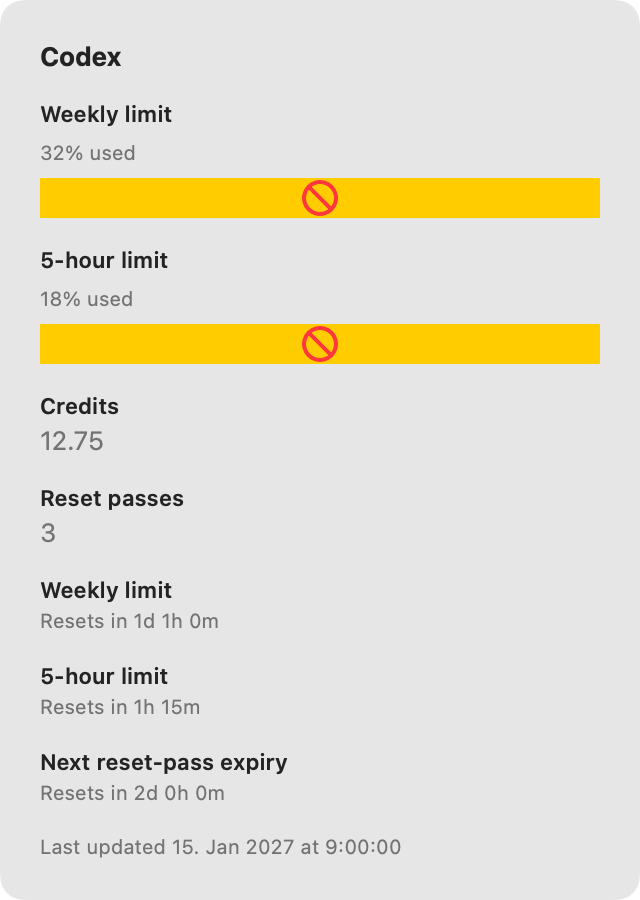
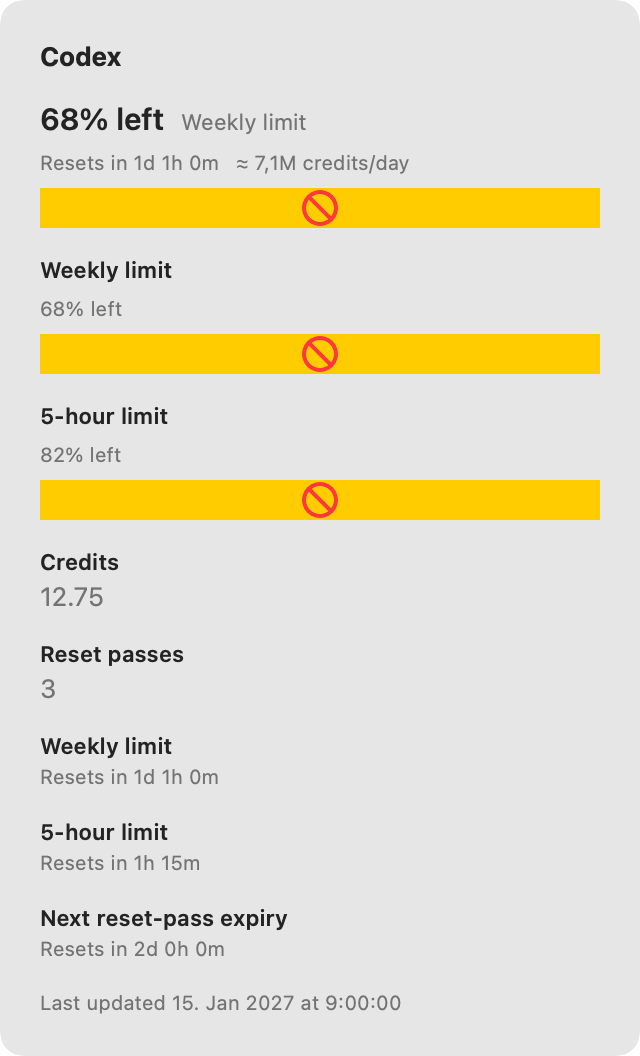
Wave 4 task 4.3: fixture render refresh (18 states)
All 15 expanded section states re-rendered for the headline-first layout,
plus 3 collapsed headline variants: codex-headline, claude-headline, and
vibe-budget-headline (estimated % left + $/day). Verification README
updated with the new states and suite counts (129/129).

Generated by Mistral Vibe.

Changed region(s): [[0.0625, 0.0311, 0.9375, 0.9022], [0.0625, 0.9333, 0.625, 0.9644]]

diff --git a/docs/verification/2026-10-29-multi-provider-hud/README.md b/docs/verification/2026-10-29-multi-provider-hud/README.md
@@ -1,6 +1,7 @@
 # Verification — Multi-Provider Usage HUD v1 (Task 3.2)
 
-Evidence for task 3.2 of `docs/plans/2026-10-29-multi-provider-hud/IMPLEMENTATION_PLAN.md`:
+Evidence for task 3.2 (and Wave 4's evidence refresh, task 4.3) of
+`docs/plans/2026-10-29-multi-provider-hud/IMPLEMENTATION_PLAN.md`:
 full-suite verification plus fixture renders of every section state for every provider.
 
 ## What this evidence shows
@@ -17,6 +18,9 @@ cd 01_Project && xcodebuild -project LLM-UsageStatus.xcodeproj -scheme LLM-Usage
 
 - Baseline (pre-3.2 files): 116 tests, 0 failures — `** TEST SUCCEEDED **`.
 - After 3.2 additions: 119 tests, 0 failures — `** TEST SUCCEEDED **`.
+- After Wave 4 (headline-first sections, Vibe monthly budget; task 4.3):
+  129 tests, 0 failures — `** TEST SUCCEEDED **`, all 18 renders regenerated
+  (15 expanded states + 3 collapsed headline variants).
   The 3 new tests are `SectionFixtureRenderTests` (one per provider, app-hosted).
 
 No existing test failed at any point; no app source was changed for this task.
@@ -30,11 +34,17 @@ File names are `<provider>-<state>.png`:
 
 | State | Meaning (store/view vocabulary) | Files |
 |---|---|---|
-| `populated` | Fresh values; rows/meters/deadlines rendered | `codex-populated.png`, `claude-populated.png`, `vibe-populated.png` |
+| `populated` | Fresh values; headline + rows/meters/deadlines rendered | `codex-populated.png`, `claude-populated.png`, `vibe-populated.png` |
 | `unavailable` | Refresh failed before any values existed; pre-approved "Unable to load usage" copy | `codex-unavailable.png`, `claude-unavailable.png`, `vibe-unavailable.png` |
 | `not-detected` | CLI absent; "Not detected on this Mac." copy | `codex-not-detected.png`, `claude-not-detected.png`, `vibe-not-detected.png` |
 | `stale` | Failed refresh retained prior values; orange "Update failed · showing previous values" caption | `codex-stale.png`, `claude-stale.png`, `vibe-stale.png` |
 | `estimate-fallback` | Fallback data visibly labeled "estimated" | `codex-estimate-fallback.png`, `claude-estimate-fallback.png`, `vibe-estimate-fallback.png` |
+| `headline` (collapsed) | The glance state the panel opens in: percent-left headline + reset countdown + estimated per-day amount, detail hidden until clicked | `codex-headline.png`, `claude-headline.png`, `vibe-budget-headline.png` |
+
+The populated/stale/estimate-fallback renders above show the **expanded** detail (all rows,
+meters, deadlines); the three headline renders show the **collapsed** glance state, including
+the Vibe monthly-budget headline (`vibe-budget-headline.png`: estimated % left, $/day quote,
+estimate tag — mirrors `VibeUsageProvider`'s budget path).
 
 Fixture provenance notes (honest labeling, per the project rule that estimates must be
 visibly labeled and never confused with authoritative values):
@@ -56,9 +66,10 @@ deterministic across machines and runs.
 
 ### 3. Checked-in previews
 
-The same 15 scenarios are available as SwiftUI previews (Xcode canvas) in
+The same scenarios are available as SwiftUI previews (Xcode canvas) in
 `01_Project/Tests/Features/UsageStatus/SectionFixturePreviews.swift` — one
-`#Preview` per provider × state, all driven by the shared catalog in
+`#Preview` per provider × state (15), plus the three headline variants
+(Codex, Claude, Vibe with budget), all driven by the shared catalog in
 `SectionFixtures.swift`. Previews and render tests share the catalog, so they
 cannot drift.
 
